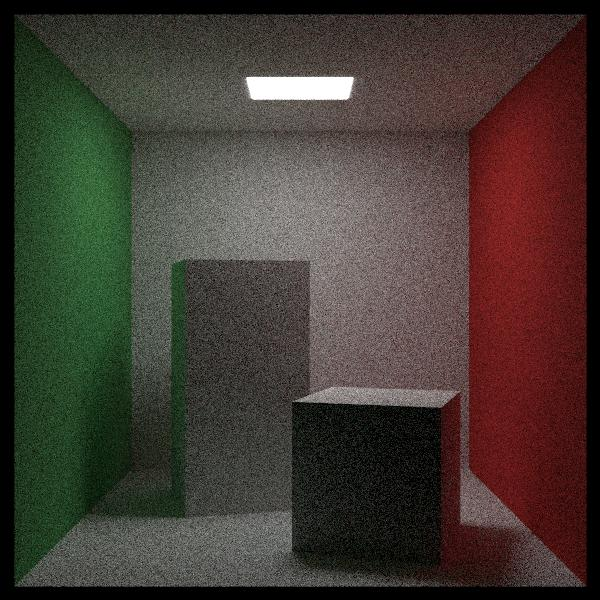
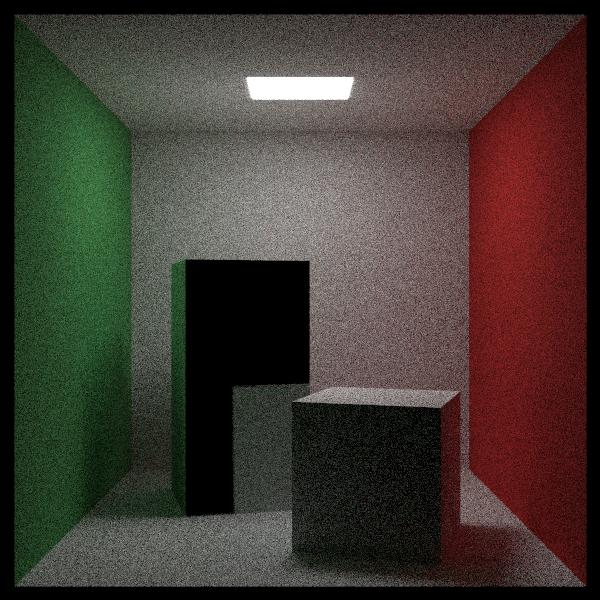
New demo scene

Changed region(s): [[0.03, 0.03, 0.96, 0.99]]

diff --git a/Raytracer.java b/Raytracer.java
@@ -20,6 +20,7 @@ public class Raytracer{
         Material red = new Lambertian(new Vector3(0.65, 0.05, 0.05));
         Material white = new Lambertian(new Vector3(0.73));
         Material green = new Lambertian(new Vector3(0.12, 0.45, 0.15));
+        Material metal = new Metal(new Vector3(0.7), 0.01);
         Material light = new DiffuseLight(new Vector3(15, 15, 15));
 
         world.add(new Quad(new Vector3(555,0,0), new Vector3(0,555,0), new Vector3(0,0,555), green));
@@ -29,7 +30,7 @@ public class Raytracer{
         world.add(new Quad(new Vector3(555,555,555), new Vector3(-555,0,0), new Vector3(0,0,-555), white));
         world.add(new Quad(new Vector3(0,0,555), new Vector3(555,0,0), new Vector3(0,555,0), white));
 
-        Hittable box1 = Quad.box(new Vector3(0,0,0), new Vector3(165,330,165), white);
+        Hittable box1 = Quad.box(new Vector3(0,0,0), new Vector3(165,330,165), metal);
         box1 = new RotateY(box1, 15);
         box1 = new Translate(box1, new Vector3(265,0,295));
         world.add(box1);
@@ -66,7 +67,6 @@ public class Raytracer{
         cam.defocus_angle = 0;
 
         cam.render(world);
-        //cam.testRender();
     }
 
     public static void main(String[] args) throws IOException {
